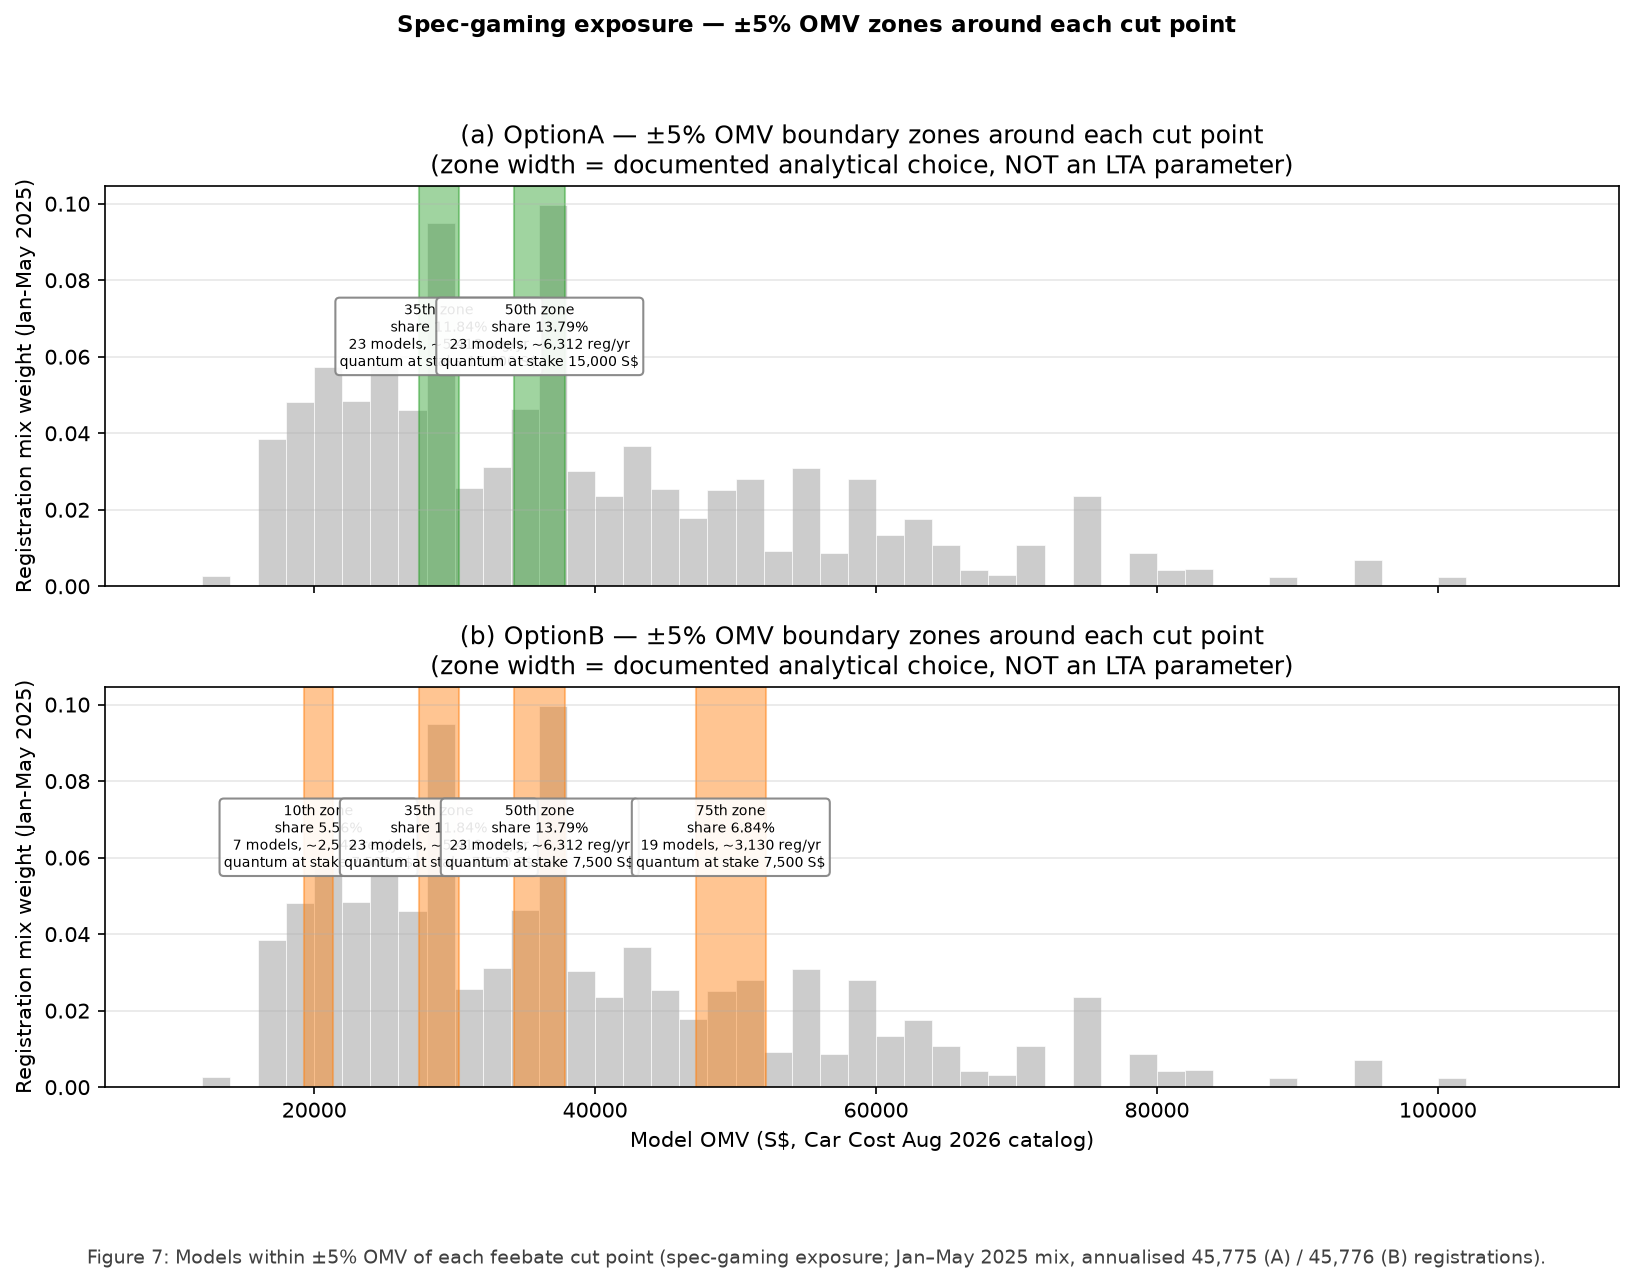
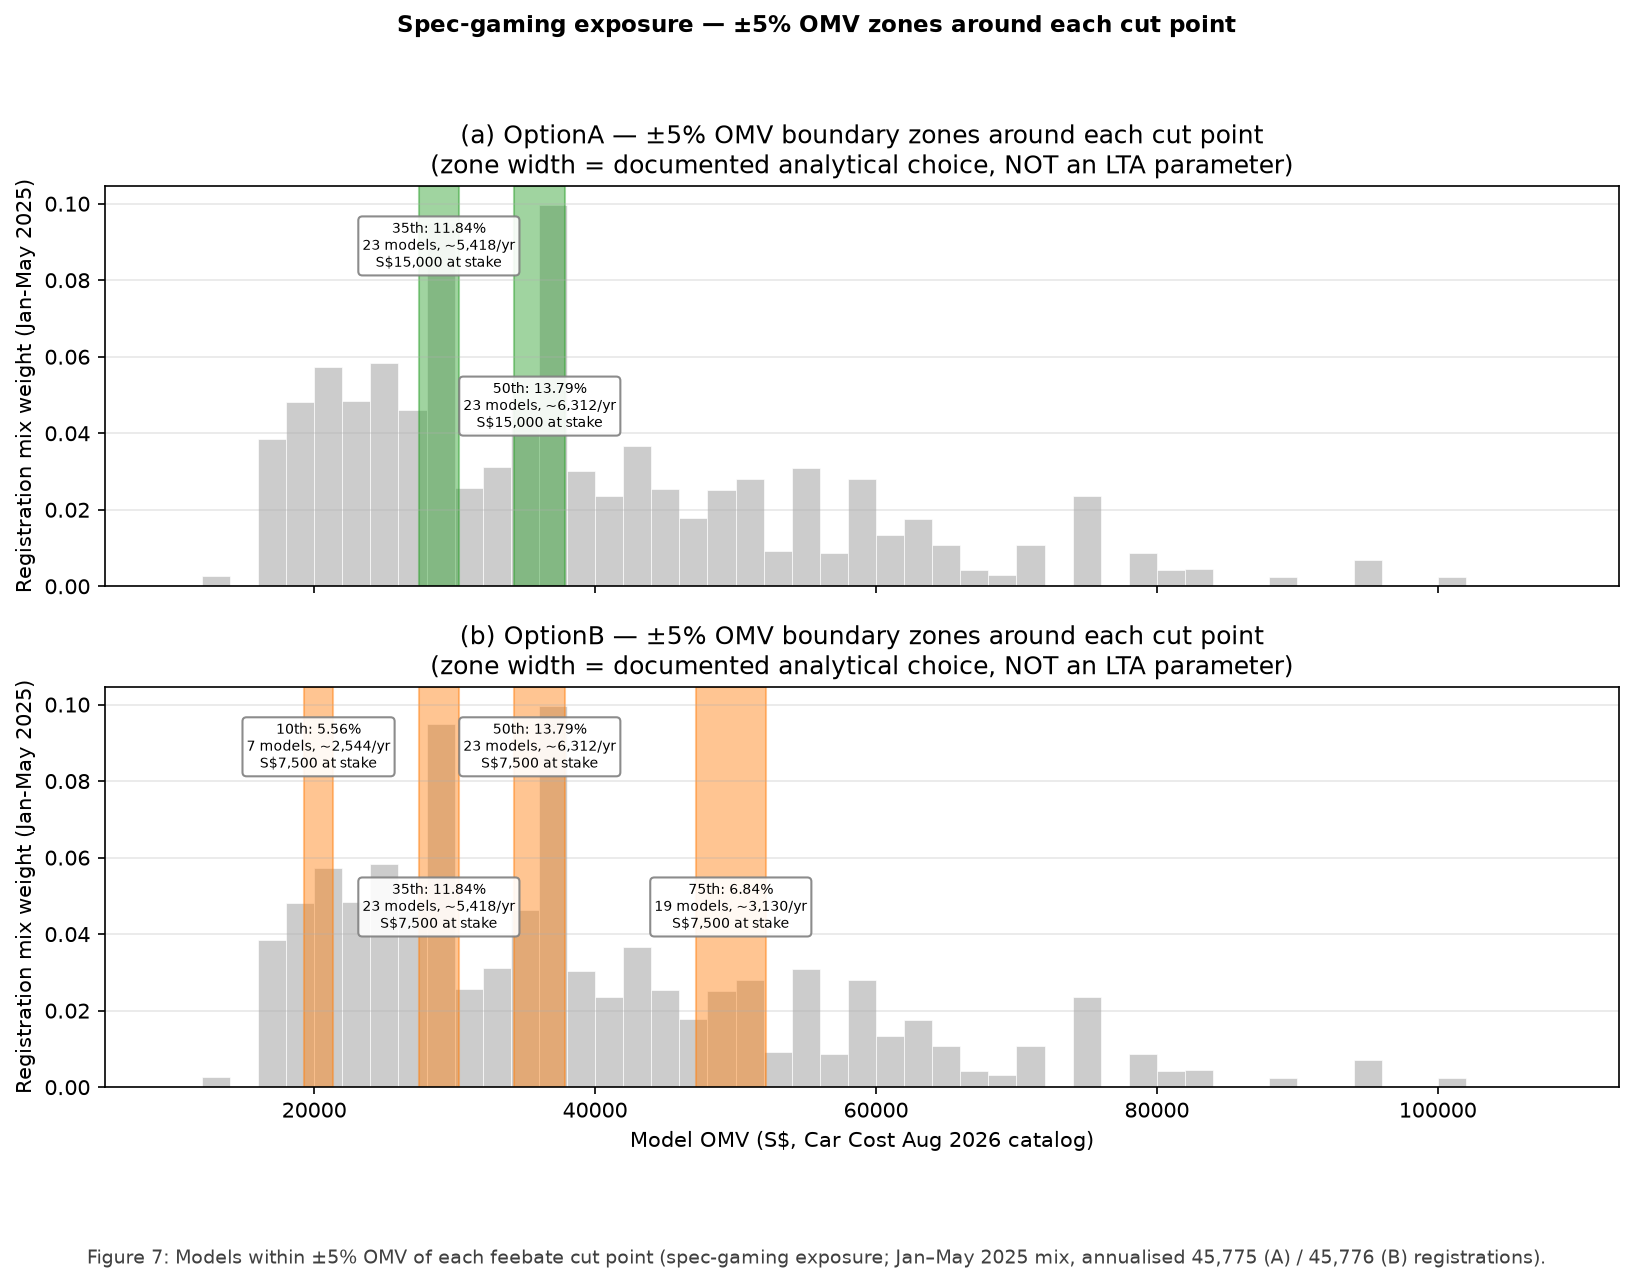
Figure 7 (gaming zones): fix overlapping zone label boxes - stagger the six boxes into two rows (even zone -> upper, odd -> lower) since adjacent zone centres are only 7,000-8,500 S\$ apart on the 100,000 S\$ axis (same-height boxes of ~120px width must collide); compact 3-line labels (percentile: s

Changed region(s): [[0.1248, 0.5612, 0.5306, 0.7482], [0.2185, 0.1559, 0.4058, 0.3429]]

diff --git a/src/make_charts.py b/src/make_charts.py
@@ -469,16 +469,21 @@ def fig8():
     edges = list(range(10000, 110000, 2000))
     for (ax, opt, col), lab in zip(((ax1, "OptionA", "#2ca02c"), (ax2, "OptionB", "#ff7f0e")), "ab"):
         ax.hist(omv, bins=edges, weights=w, color="#cccccc", edgecolor="white", lw=0.3)
-        for r in rowsz:
-            if r[ixd["option"]] != opt:
-                continue
+        # zone labels: staggered into two rows (even zone -> upper, odd ->
+        # lower) so the boxes cannot collide — adjacent zone centres are
+        # only ~7,000-8,500 S$ apart on the 100,000 S$ axis (verified on
+        # the rendered bboxes: min gap 25 px)
+        zlist = sorted((r for r in rowsz if r[ixd["option"]] == opt),
+                       key=lambda r: f(r[ixd["zone_lo_sgd"]]) or 0.0)
+        for i, r in enumerate(zlist):
             lo, hi = f(r[ixd["zone_lo_sgd"]]), f(r[ixd["zone_hi_sgd"]])
             share = f(r[ixd["zone_share_pct_covered_mix"]]); nmod = int(f(r[ixd["n_models_in_zone"]]))
             ann = f(r[ixd["est_registrations_annual_in_zone"]]); qp = f(r[ixd["quantum_at_stake_sgd"]])
             ax.axvspan(lo, hi, color=col, alpha=0.45)
             mid = (lo + hi) / 2
-            ax.annotate(f"{r[ixd['percentile']]}th zone\nshare {share:.2f}%\n{nmod} models, ~{ann:,.0f} reg/yr\nquantum at stake {qp:,.0f} S$",
-                        xy=(mid, ax.get_ylim()[1] * 0.55), fontsize=6.8, ha="center",
+            yf = 0.85 if i % 2 == 0 else 0.45
+            ax.annotate(f"{r[ixd['percentile']]}th: {share:.2f}%\n{nmod} models, ~{ann:,.0f}/yr\nS${qp:,.0f} at stake",
+                        xy=(mid, ax.get_ylim()[1] * yf), fontsize=6.5, ha="center", va="center",
                         bbox=dict(boxstyle="round", fc="white", alpha=0.9, ec="gray"))
         ax.set_title(f"({lab}) {opt} — ±5% OMV boundary zones around each cut point\n(zone width = documented analytical choice, NOT an LTA parameter)")
         ax.set_ylabel("Registration mix weight (Jan-May 2025)")
